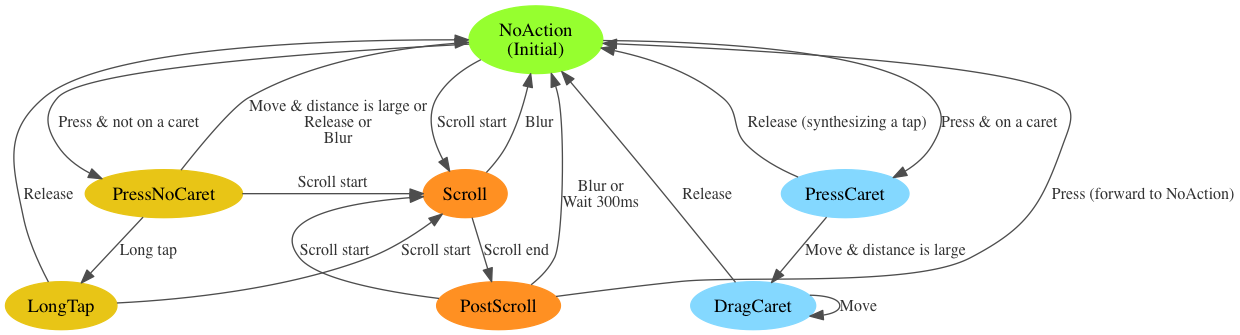
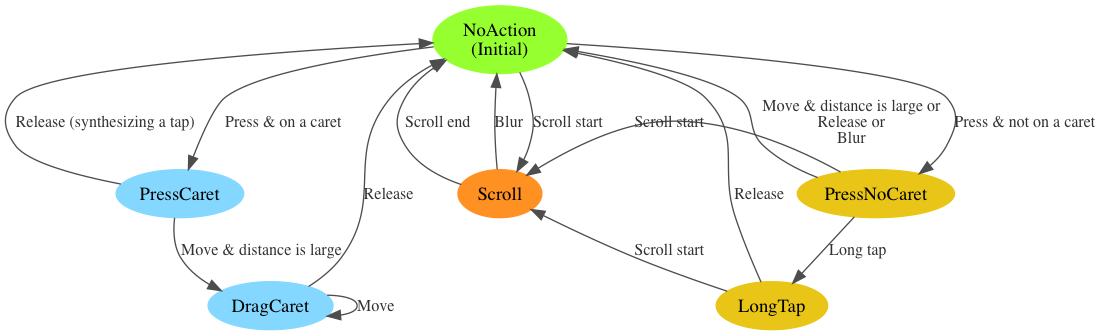
Bug 1432017 - Remove AccessibleCaretEventHub::PostScrollState. r=mats
In the era of B2G, we wanted to hide the carets during scrolling, and
PostScrollState was designed to avoid carets flicking during momentum
scrolling.

These days, we no longer hide carets during scrolling, so PostScrollState
can be removed to make the code simpler and easier to maintain.

MozReview-Commit-ID: Bf6ZgYVlt1q

diff --git a/layout/base/gtest/TestAccessibleCaretEventHub.cpp b/layout/base/gtest/TestAccessibleCaretEventHub.cpp
@@ -60,9 +60,7 @@ public:
   using AccessibleCaretEventHub::DragCaretState;
   using AccessibleCaretEventHub::PressNoCaretState;
   using AccessibleCaretEventHub::ScrollState;
-  using AccessibleCaretEventHub::PostScrollState;
   using AccessibleCaretEventHub::LongTapState;
-  using AccessibleCaretEventHub::FireScrollEnd;
 
   MockAccessibleCaretEventHub()
     : AccessibleCaretEventHub(nullptr)
@@ -577,10 +575,6 @@ AccessibleCaretEventHubTester::TestLongTapWithSelectWordSuccessful(
   EXPECT_EQ(mHub->GetState(), MockAccessibleCaretEventHub::ScrollState());
 
   mHub->AsyncPanZoomStopped();
-  EXPECT_EQ(mHub->GetState(), MockAccessibleCaretEventHub::PostScrollState());
-
-  // Simulate scroll end fired by timer.
-  MockAccessibleCaretEventHub::FireScrollEnd(nullptr, mHub);
   EXPECT_EQ(mHub->GetState(), MockAccessibleCaretEventHub::NoActionState());
 
   HandleEventAndCheckState(aReleaseEventCreator(1, 1),
@@ -658,18 +652,15 @@ AccessibleCaretEventHubTester::TestEventDrivenAsyncPanZoomScroll(
 
     EXPECT_CALL(check, Call("1"));
     EXPECT_CALL(*mHub->GetMockAccessibleCaretManager(), OnScrollStart());
-
-    EXPECT_CALL(check, Call("2"));
     EXPECT_CALL(*mHub->GetMockAccessibleCaretManager(), OnScrollEnd());
 
+    EXPECT_CALL(check, Call("2"));
     EXPECT_CALL(*mHub->GetMockAccessibleCaretManager(), PressCaret(_, _))
       .WillOnce(Return(NS_ERROR_FAILURE));
     EXPECT_CALL(*mHub->GetMockAccessibleCaretManager(), DragCaret(_)).Times(0);
 
     EXPECT_CALL(check, Call("3"));
     EXPECT_CALL(*mHub->GetMockAccessibleCaretManager(), OnScrollStart());
-
-    EXPECT_CALL(check, Call("4"));
     EXPECT_CALL(*mHub->GetMockAccessibleCaretManager(), OnScrollEnd());
   }
 
@@ -697,10 +688,10 @@ AccessibleCaretEventHubTester::TestEventDrivenAsyncPanZoomScroll(
 
   // Event driven scroll ended
   mHub->AsyncPanZoomStopped();
-  EXPECT_EQ(mHub->GetState(), MockAccessibleCaretEventHub::PostScrollState());
+  EXPECT_EQ(mHub->GetState(), MockAccessibleCaretEventHub::NoActionState());
 
   HandleEventAndCheckState(aReleaseEventCreator(210, 210),
-                           MockAccessibleCaretEventHub::PostScrollState(),
+                           MockAccessibleCaretEventHub::NoActionState(),
                            nsEventStatus_eIgnore);
 
   check.Call("2");
@@ -725,17 +716,11 @@ AccessibleCaretEventHubTester::TestEventDrivenAsyncPanZoomScroll(
 
   // Another APZ scroll ended
   mHub->AsyncPanZoomStopped();
-  EXPECT_EQ(mHub->GetState(), MockAccessibleCaretEventHub::PostScrollState());
+  EXPECT_EQ(mHub->GetState(), MockAccessibleCaretEventHub::NoActionState());
 
   HandleEventAndCheckState(aReleaseEventCreator(310, 310),
-                           MockAccessibleCaretEventHub::PostScrollState(),
+                           MockAccessibleCaretEventHub::NoActionState(),
                            nsEventStatus_eIgnore);
-
-  check.Call("4");
-
-  // Simulate scroll end fired by timer.
-  MockAccessibleCaretEventHub::FireScrollEnd(nullptr, mHub);
-  EXPECT_EQ(mHub->GetState(), MockAccessibleCaretEventHub::NoActionState());
 }
 
 TEST_F(AccessibleCaretEventHubTester, TestAsyncPanZoomScroll)
@@ -746,14 +731,18 @@ TEST_F(AccessibleCaretEventHubTester, TestAsyncPanZoomScroll)
 
     EXPECT_CALL(check, Call("1"));
     EXPECT_CALL(*mHub->GetMockAccessibleCaretManager(), OnScrollStart());
-
     EXPECT_CALL(*mHub->GetMockAccessibleCaretManager(),
-                OnScrollPositionChanged()).Times(2);
+                OnScrollPositionChanged());
+    EXPECT_CALL(*mHub->GetMockAccessibleCaretManager(), OnScrollEnd());
 
     EXPECT_CALL(check, Call("2"));
+    EXPECT_CALL(*mHub->GetMockAccessibleCaretManager(), OnScrollStart());
+    EXPECT_CALL(*mHub->GetMockAccessibleCaretManager(),
+                OnScrollPositionChanged());
     EXPECT_CALL(*mHub->GetMockAccessibleCaretManager(), OnScrollEnd());
   }
 
+  // First APZ scrolling.
   check.Call("1");
 
   mHub->AsyncPanZoomStarted();
@@ -763,7 +752,10 @@ TEST_F(AccessibleCaretEventHubTester, TestAsyncPanZoomScroll)
   EXPECT_EQ(mHub->GetState(), MockAccessibleCaretEventHub::ScrollState());
 
   mHub->AsyncPanZoomStopped();
-  EXPECT_EQ(mHub->GetState(), MockAccessibleCaretEventHub::PostScrollState());
+  EXPECT_EQ(mHub->GetState(), MockAccessibleCaretEventHub::NoActionState());
+
+  // Second APZ scrolling.
+  check.Call("2");
 
   mHub->AsyncPanZoomStarted();
   EXPECT_EQ(mHub->GetState(), MockAccessibleCaretEventHub::ScrollState());
@@ -772,12 +764,6 @@ TEST_F(AccessibleCaretEventHubTester, TestAsyncPanZoomScroll)
   EXPECT_EQ(mHub->GetState(), MockAccessibleCaretEventHub::ScrollState());
 
   mHub->AsyncPanZoomStopped();
-  EXPECT_EQ(mHub->GetState(), MockAccessibleCaretEventHub::PostScrollState());
-
-  check.Call("2");
-
-  // Simulate scroll end fired by timer.
-  MockAccessibleCaretEventHub::FireScrollEnd(nullptr, mHub);
   EXPECT_EQ(mHub->GetState(), MockAccessibleCaretEventHub::NoActionState());
 }
 
@@ -807,7 +793,7 @@ TEST_F(AccessibleCaretEventHubTester, TestAsyncPanZoomScrollEndedThenBlur)
     InSequence dummy;
 
     EXPECT_CALL(*mHub->GetMockAccessibleCaretManager(), OnScrollStart());
-    EXPECT_CALL(*mHub->GetMockAccessibleCaretManager(), OnScrollEnd()).Times(0);
+    EXPECT_CALL(*mHub->GetMockAccessibleCaretManager(), OnScrollEnd());
     EXPECT_CALL(*mHub->GetMockAccessibleCaretManager(), OnBlur());
   }
 
@@ -818,7 +804,7 @@ TEST_F(AccessibleCaretEventHubTester, TestAsyncPanZoomScrollEndedThenBlur)
   EXPECT_EQ(mHub->GetState(), MockAccessibleCaretEventHub::ScrollState());
 
   mHub->AsyncPanZoomStopped();
-  EXPECT_EQ(mHub->GetState(), MockAccessibleCaretEventHub::PostScrollState());
+  EXPECT_EQ(mHub->GetState(), MockAccessibleCaretEventHub::NoActionState());
 
   mHub->NotifyBlur(true);
   EXPECT_EQ(mHub->GetState(), MockAccessibleCaretEventHub::NoActionState());

diff --git a/layout/base/AccessibleCaretEventHub.cpp b/layout/base/AccessibleCaretEventHub.cpp
@@ -245,7 +245,8 @@ public:
 
   void OnScrollEnd(AccessibleCaretEventHub* aContext) override
   {
-    aContext->SetState(aContext->PostScrollState());
+    aContext->mManager->OnScrollEnd();
+    aContext->SetState(aContext->NoActionState());
   }
 
   void OnScrollPositionChanged(AccessibleCaretEventHub* aContext) override
@@ -260,59 +261,6 @@ public:
     if (aIsLeavingDocument) {
       aContext->SetState(aContext->NoActionState());
     }
-  }
-};
-
-// -----------------------------------------------------------------------------
-// PostScrollState: In this state, we are waiting for another APZ start or press
-// event.
-//
-class AccessibleCaretEventHub::PostScrollState
-  : public AccessibleCaretEventHub::State
-{
-public:
-  const char* Name() const override { return "PostScrollState"; }
-
-  nsEventStatus OnPress(AccessibleCaretEventHub* aContext,
-                        const nsPoint& aPoint, int32_t aTouchId,
-                        EventClassID aEventClass) override
-  {
-    aContext->mManager->OnScrollEnd();
-    aContext->SetState(aContext->NoActionState());
-
-    return aContext->GetState()->OnPress(aContext, aPoint, aTouchId,
-                                         aEventClass);
-  }
-
-  void OnScrollStart(AccessibleCaretEventHub* aContext) override
-  {
-    aContext->SetState(aContext->ScrollState());
-  }
-
-  void OnScrollEnd(AccessibleCaretEventHub* aContext) override
-  {
-    aContext->mManager->OnScrollEnd();
-    aContext->SetState(aContext->NoActionState());
-  }
-
-  void OnBlur(AccessibleCaretEventHub* aContext,
-              bool aIsLeavingDocument) override
-  {
-    aContext->mManager->OnBlur();
-    if (aIsLeavingDocument) {
-      aContext->SetState(aContext->NoActionState());
-    }
-  }
-
-  void Enter(AccessibleCaretEventHub* aContext) override
-  {
-    // Launch the injector to leave PostScrollState.
-    aContext->LaunchScrollEndInjector();
-  }
-
-  void Leave(AccessibleCaretEventHub* aContext) override
-  {
-    aContext->CancelScrollEndInjector();
   }
 };
 
@@ -383,7 +331,6 @@ MOZ_IMPL_STATE_CLASS_GETTER(PressCaretState)
 MOZ_IMPL_STATE_CLASS_GETTER(DragCaretState)
 MOZ_IMPL_STATE_CLASS_GETTER(PressNoCaretState)
 MOZ_IMPL_STATE_CLASS_GETTER(ScrollState)
-MOZ_IMPL_STATE_CLASS_GETTER(PostScrollState)
 MOZ_IMPL_STATE_CLASS_GETTER(LongTapState)
 
 bool AccessibleCaretEventHub::sUseLongTapInjector = false;
@@ -437,8 +384,6 @@ AccessibleCaretEventHub::Init()
     mLongTapInjectorTimer = NS_NewTimer();
   }
 
-  mScrollEndInjectorTimer = NS_NewTimer();
-
   mManager = MakeUnique<AccessibleCaretManager>(mPresShell);
 
   mInitialized = true;
@@ -459,10 +404,6 @@ AccessibleCaretEventHub::Terminate()
 
   if (mLongTapInjectorTimer) {
     mLongTapInjectorTimer->Cancel();
-  }
-
-  if (mScrollEndInjectorTimer) {
-    mScrollEndInjectorTimer->Cancel();
   }
 
   mManager->Terminate();
@@ -743,40 +684,6 @@ AccessibleCaretEventHub::ScrollPositionChanged()
 
   AC_LOG("%s, state: %s", __FUNCTION__, mState->Name());
   mState->OnScrollPositionChanged(this);
-}
-
-void
-AccessibleCaretEventHub::LaunchScrollEndInjector()
-{
-  if (!mScrollEndInjectorTimer) {
-    return;
-  }
-
-  mScrollEndInjectorTimer->InitWithNamedFuncCallback(
-    FireScrollEnd,
-    this,
-    kScrollEndTimerDelay,
-    nsITimer::TYPE_ONE_SHOT,
-    "AccessibleCaretEventHub::LaunchScrollEndInjector");
-}
-
-void
-AccessibleCaretEventHub::CancelScrollEndInjector()
-{
-  if (!mScrollEndInjectorTimer) {
-    return;
-  }
-
-  mScrollEndInjectorTimer->Cancel();
-}
-
-/* static */ void
-AccessibleCaretEventHub::FireScrollEnd(nsITimer* aTimer,
-                                       void* aAccessibleCaretEventHub)
-{
-  RefPtr<AccessibleCaretEventHub> self =
-    static_cast<AccessibleCaretEventHub*>(aAccessibleCaretEventHub);
-  self->mState->OnScrollEnd(self);
 }
 
 nsresult

diff --git a/layout/base/AccessibleCaretEventHub.h b/layout/base/AccessibleCaretEventHub.h
@@ -108,7 +108,6 @@ protected:
   MOZ_DECL_STATE_CLASS_GETTER(DragCaretState)
   MOZ_DECL_STATE_CLASS_GETTER(PressNoCaretState)
   MOZ_DECL_STATE_CLASS_GETTER(ScrollState)
-  MOZ_DECL_STATE_CLASS_GETTER(PostScrollState)
   MOZ_DECL_STATE_CLASS_GETTER(LongTapState)
 
   void SetState(State* aState);
@@ -145,9 +144,6 @@ protected:
   // is enabled, it will send long tap event to us.
   nsCOMPtr<nsITimer> mLongTapInjectorTimer;
 
-  // Use this timer for injecting a simulated scroll end.
-  nsCOMPtr<nsITimer> mScrollEndInjectorTimer;
-
   // Last mouse button down event or touch start event point.
   nsPoint mPressPoint{ NS_UNCONSTRAINEDSIZE, NS_UNCONSTRAINEDSIZE };
 
@@ -163,7 +159,6 @@ protected:
   // Simulate long tap if the platform does not support eMouseLongTap events.
   static bool sUseLongTapInjector;
 
-  static const int32_t kScrollEndTimerDelay = 300;
   static const int32_t kMoveStartToleranceInPixel = 5;
   static const int32_t kInvalidTouchId = -1;
   static const int32_t kDefaultTouchId = 0; // For mouse event
